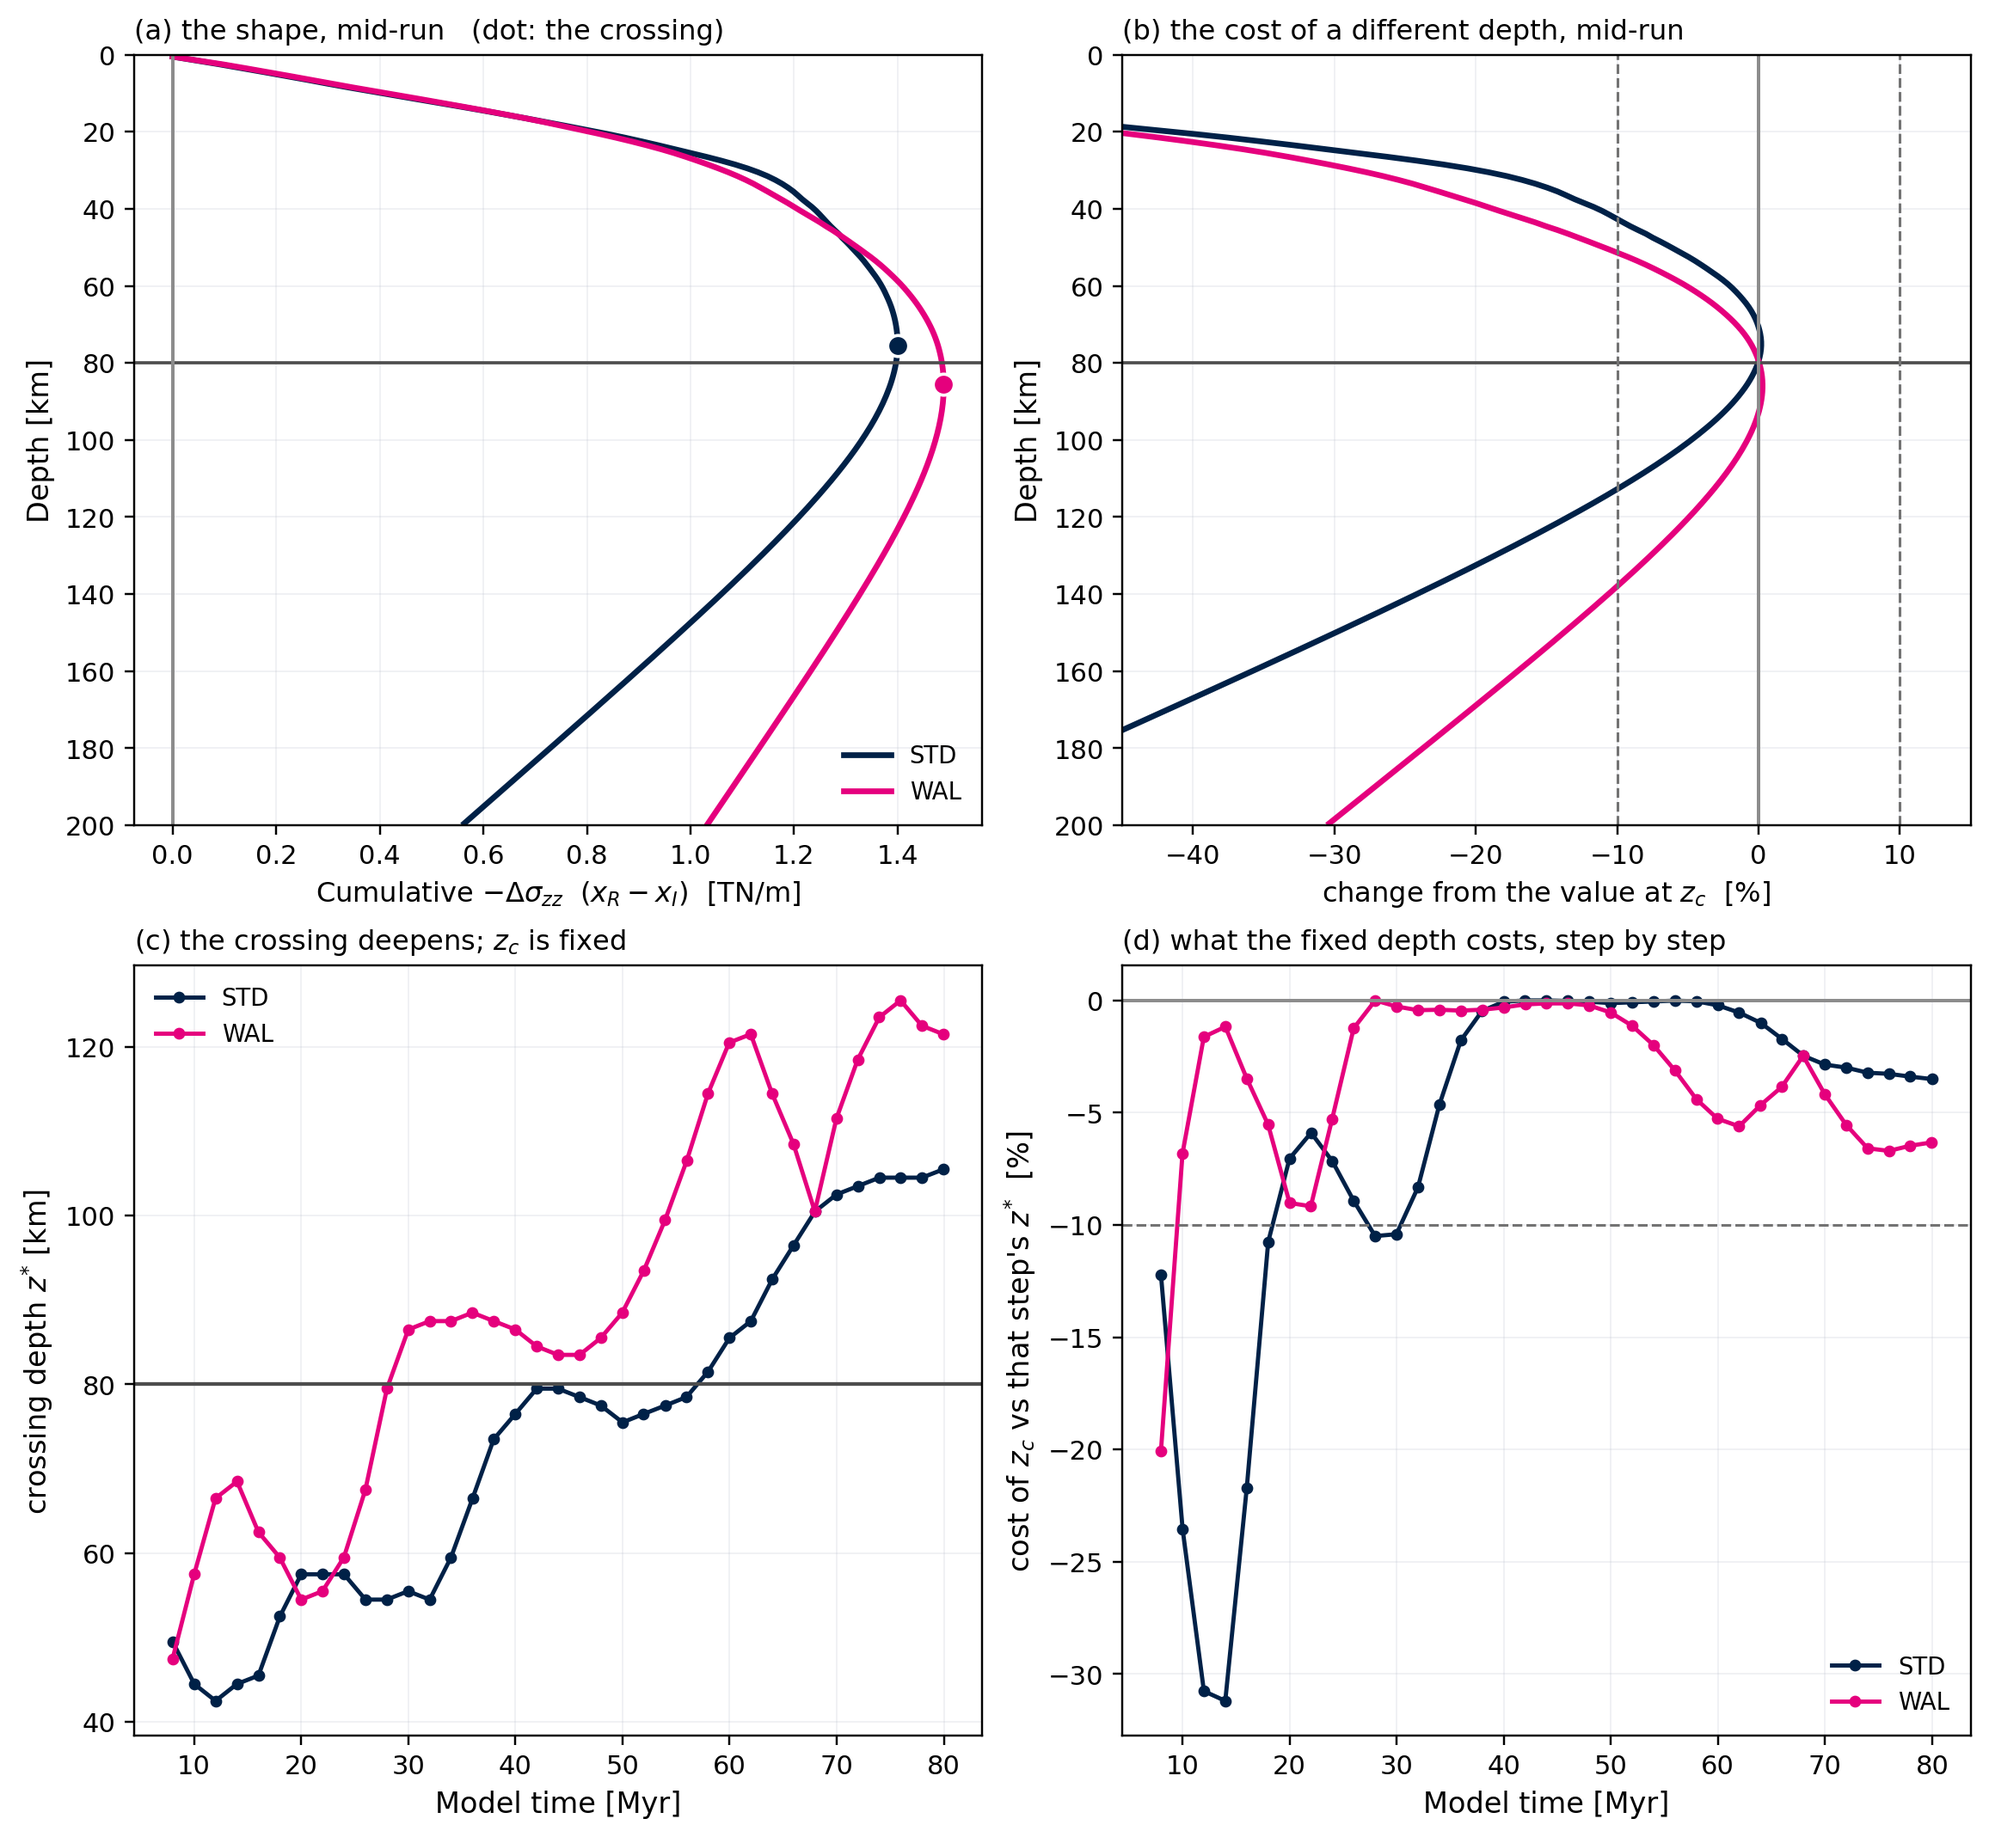
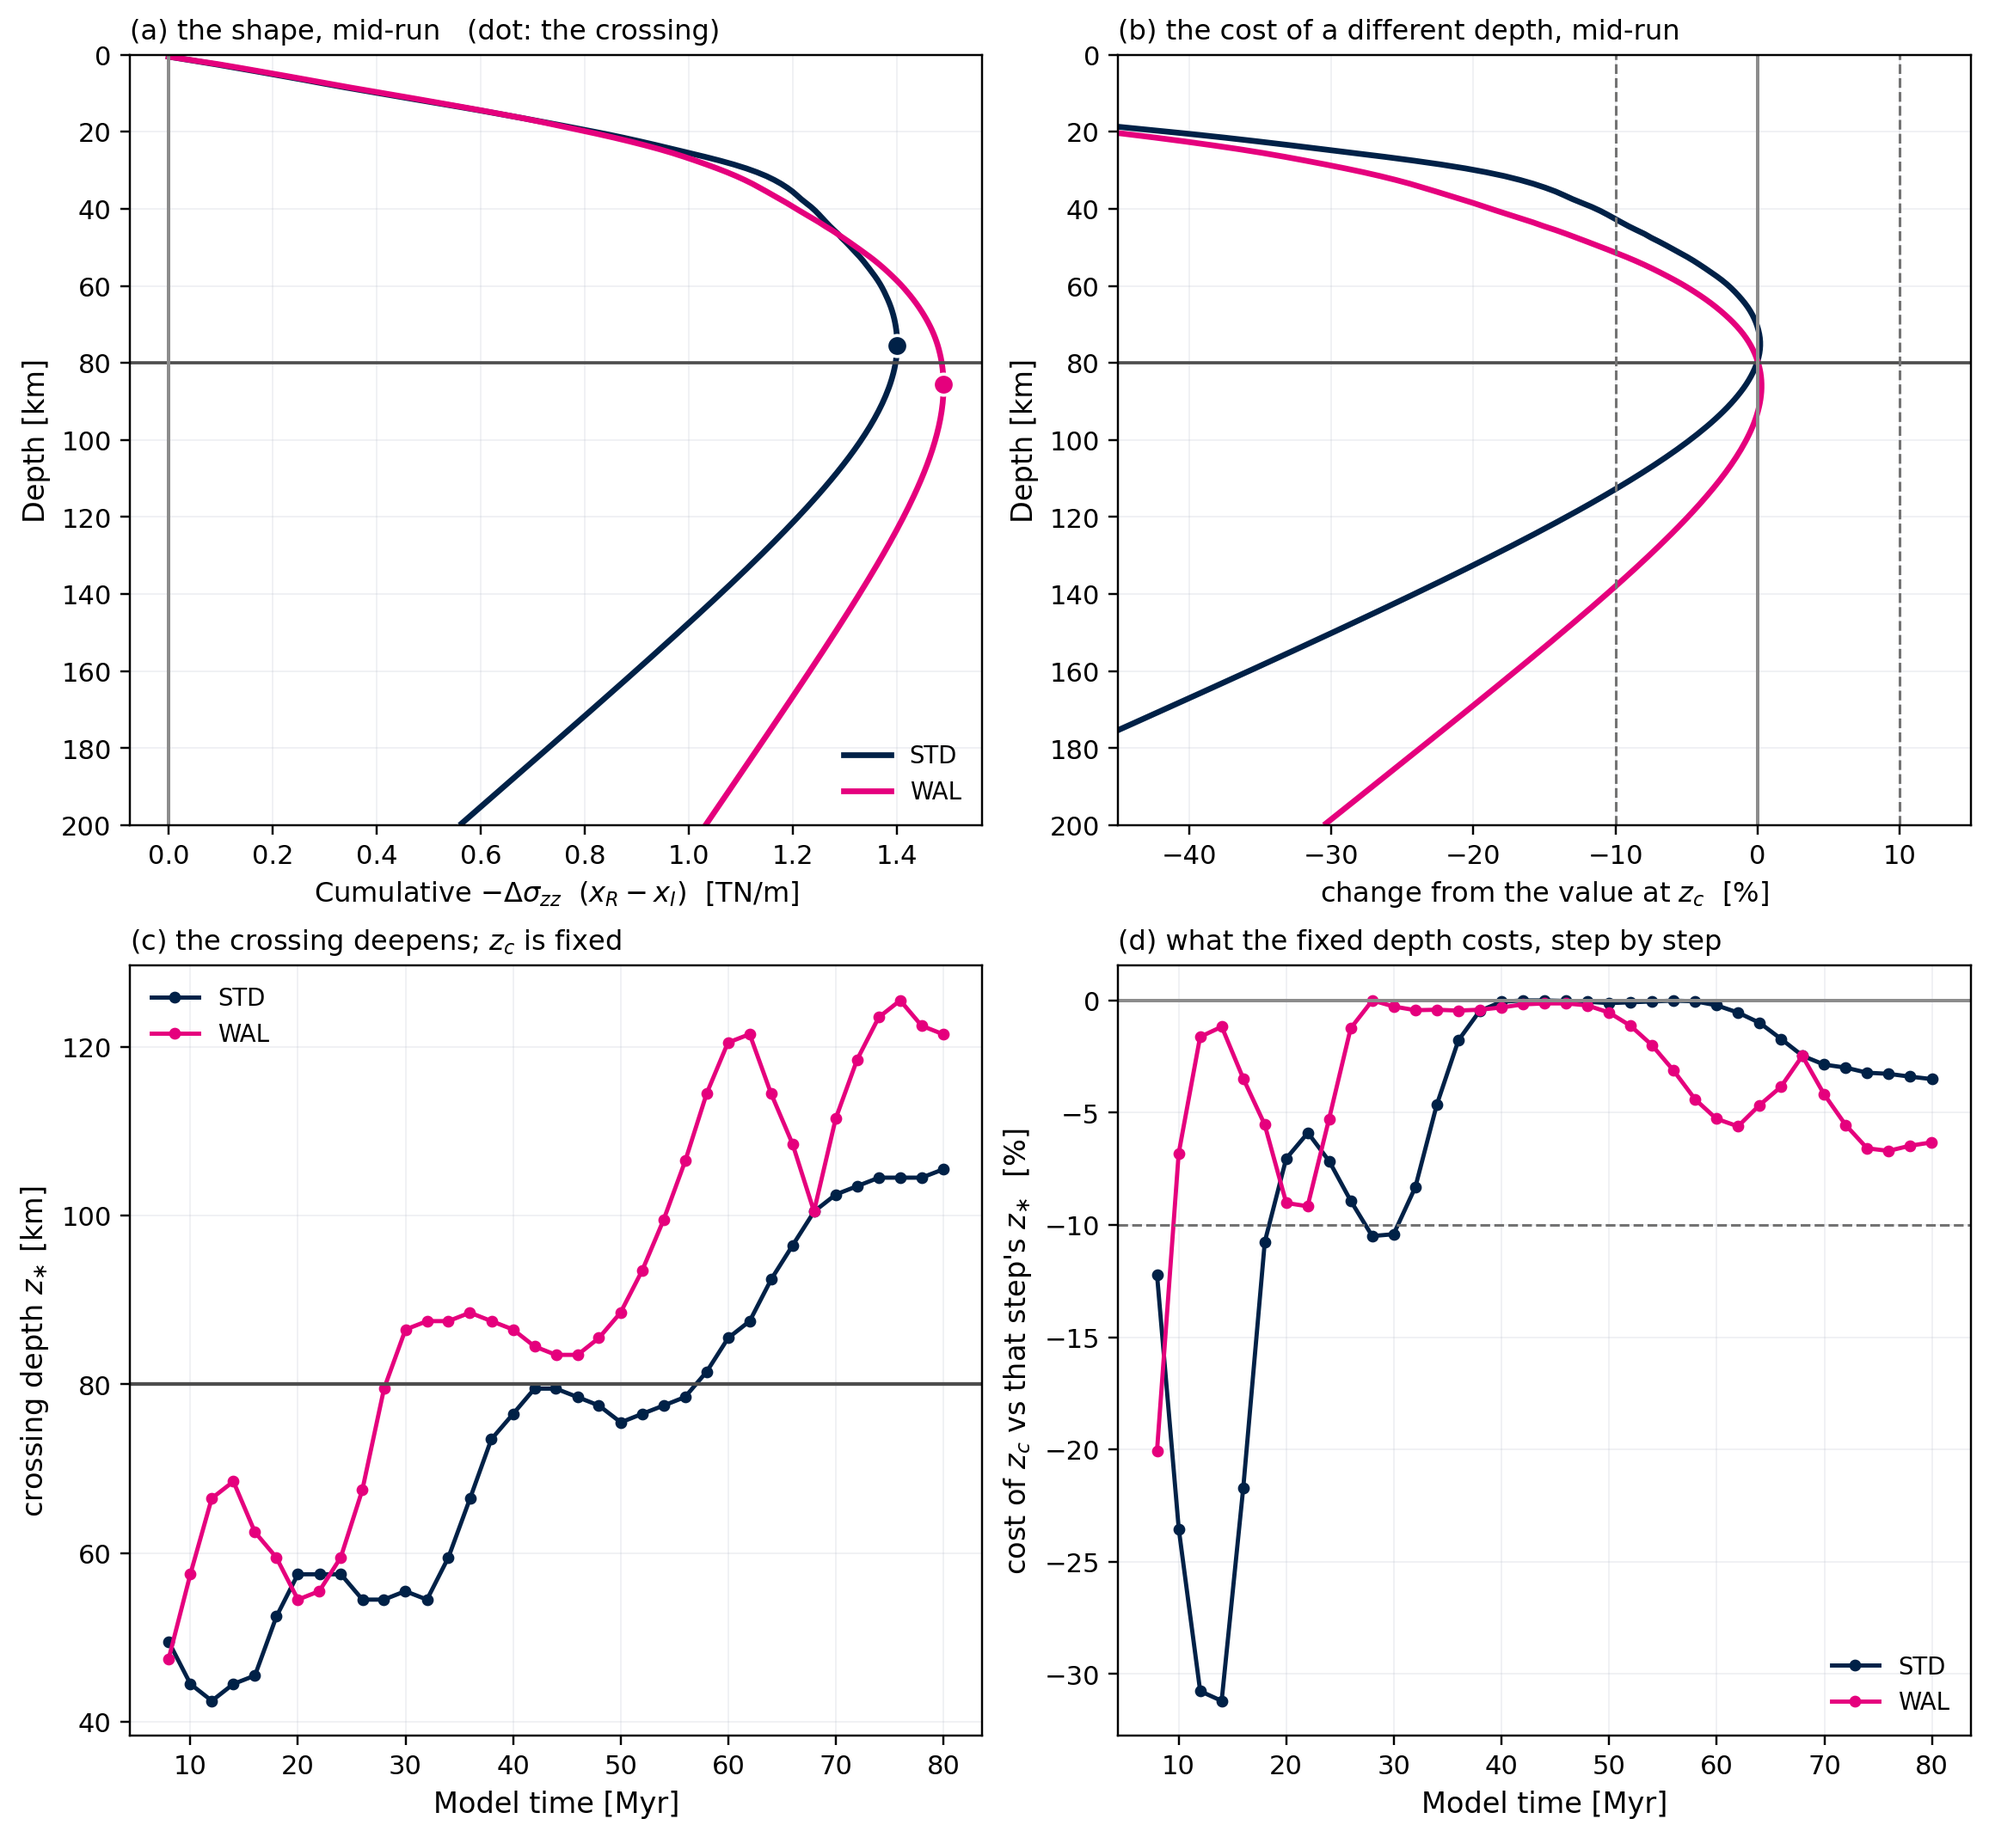
S8, S9, S12: z_* is a subscript, matching the manuscript
Three SI figure scripts rendered the force-crossover depth as z^{*},
superscript, while the manuscript writes z_{\ast} 20 times and never the
superscript. Figures S9 (thickness definitions), S8 (ridge cumulative,
two axis labels) and S12 (ridge push anatomy).

Two of the four were also latent bugs rather than only wrong notation:
one sat in a plain string where \a is a bell character, the other in an
f-string where {\ast} is a replacement field. Both now raw, with braces
doubled in the f-string.

SYMBOLOGY now carries the symbol (umbrella 76dc16e) with the superscript
listed as deprecated, so the audit can see it. It was never registered,
which is why nothing caught the divergence.

diff --git a/scripts/fig_ridge_cumulative.py b/scripts/fig_ridge_cumulative.py
@@ -182,13 +182,13 @@ def main():
         ax.grid(alpha=0.25, color=C_RULE, lw=0.6)
         ax.legend(frameon=False, fontsize=9, loc=loc)
     a_zstar.axhline(cpc.ZC_KM, color='0.30', lw=1.4)
-    a_zstar.set_ylabel(r'crossing depth $z^{*}$ [km]', fontsize=11)
+    a_zstar.set_ylabel(r'crossing depth $z_{\ast}$ [km]', fontsize=11)
     a_zstar.set_title(r'(c) the crossing deepens; $z_c$ is fixed',
                       fontsize=10.5, loc='left')
     a_tcost.axhline(0, color='0.55', lw=1.3)
     for v in (-10,):
         a_tcost.axhline(v, color='0.45', lw=1.0, ls='--')
-    a_tcost.set_ylabel('cost of $z_c$ vs that step\'s $z^{*}$  [%]',
+    a_tcost.set_ylabel(r"cost of $z_c$ vs that step's $z_{\ast}$  [%]",
                        fontsize=11)
     a_tcost.set_title('(d) what the fixed depth costs, step by step',
                       fontsize=10.5, loc='left')

diff --git a/scripts/fig_thickness_definitions.py b/scripts/fig_thickness_definitions.py
@@ -137,7 +137,7 @@ def main():
         a1.axhline(cpc.ZC_KM, color='0.35', lw=1.1, ls=(0, (6, 3)),
                    label=rf'$z_c$  {cpc.ZC_KM:.0f} km (nominal)')
         a1.axhline(zstar, color=C_RIDGE, lw=1.1, ls=(0, (1, 2)),
-                   label=rf'$z^{{*}}$  {zstar:.0f} km')
+                   label=rf'$z_{{\ast}}$  {zstar:.0f} km')
         a1.set_xlabel(r'$-\Delta\sigma_{zz}$  (column $-\ x_I$)  [MPa]', fontsize=10)
         a1.legend(frameon=False, fontsize=8, loc='lower left',
                   handlelength=2.4, handletextpad=0.7, labelspacing=0.5,

diff --git a/scripts/fig_ridge_push_anatomy.py b/scripts/fig_ridge_push_anatomy.py
@@ -240,7 +240,7 @@ def main():
         acu.text(0.09, cpc.ZC_KM + 9,
                  f'at $z_c$   {at_zc:.2f} TN/m\n'
                  f'at the maximum   {at_max:.2f}\n'
-                 f'({100*abs(at_max-at_zc)/at_max:.1f} %; $z^*$ = {zkm[kmax]:.0f} km)',
+                 rf'({100*abs(at_max-at_zc)/at_max:.1f} %; $z_{{\ast}}$ = {zkm[kmax]:.0f} km)',
                  transform=blended_transform_factory(acu.transAxes, acu.transData),
                  fontsize=9.0, ha='left', va='top')
 
